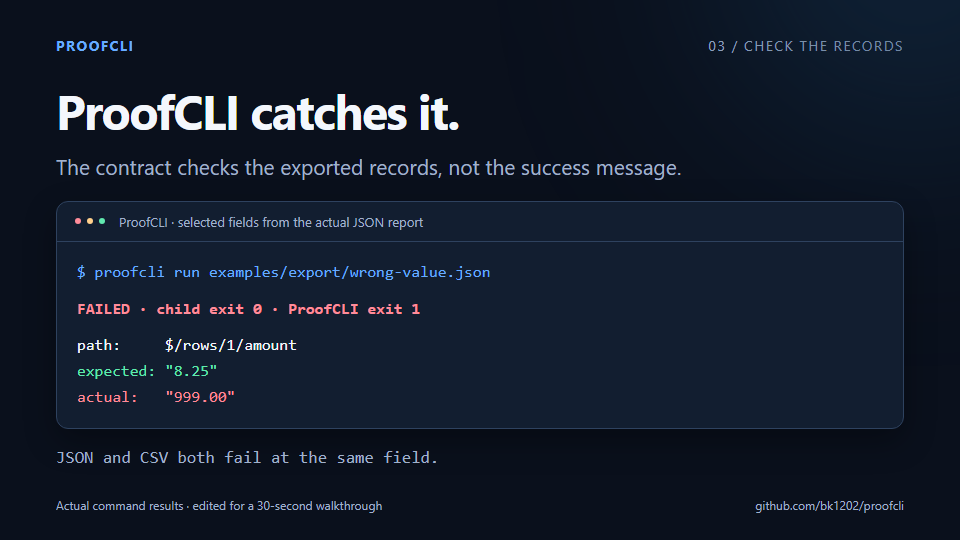
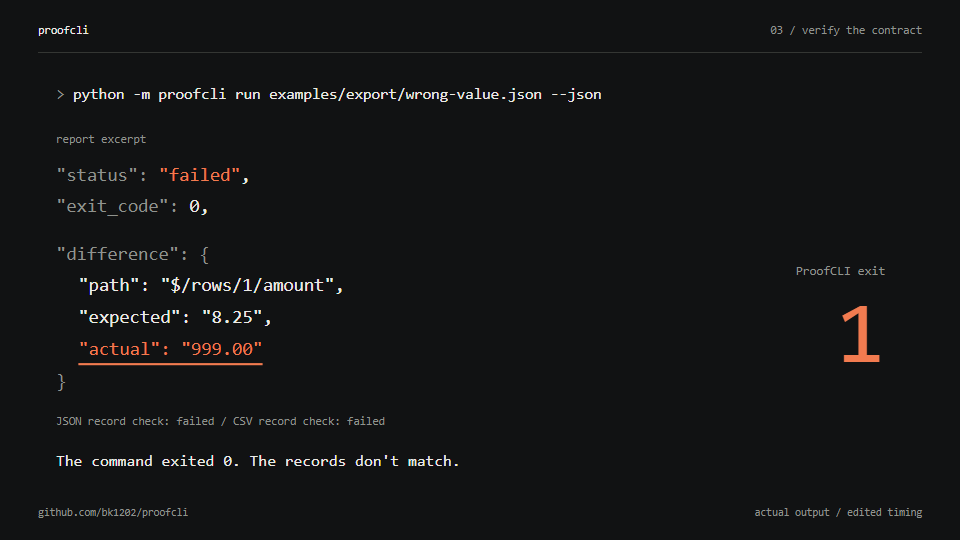
Rework the demo around terminal output and focused motion

diff --git a/demo/src/Verification.tsx b/demo/src/Verification.tsx
@@ -1,19 +1,26 @@
 import React from 'react';
 import {interpolate,useCurrentFrame,useVideoConfig} from 'remotion';
-import {color,Frame,Title,Terminal,mono} from './design';
+import {color,Frame,Note,ease} from './design';
 import evidence from './evidence.json';
 
 export const Verification: React.FC = () => {
   const frame=useCurrentFrame(); const {fps}=useVideoConfig();
-  return <Frame chapter="03 / CHECK THE RECORDS"><Title>ProofCLI catches it.</Title>
-    <div style={{fontSize:42,color:color.muted,marginBottom:42}}>The contract checks the exported records, not the success message.</div>
-    <Terminal title="ProofCLI · selected fields from the actual JSON report">
-      <div style={{color:color.blue}}>$ proofcli run examples/export/wrong-value.json</div>
-      <div style={{marginTop:22,color:color.red,fontWeight:700}}>FAILED · child exit {evidence.proofcli.child_exit_code} · ProofCLI exit {evidence.proofcli.exit_code}</div>
-      <div style={{marginTop:18}}>path:     {evidence.proofcli.difference.path}</div>
-      <div style={{color:color.green}}>expected: "{evidence.proofcli.difference.expected}"</div>
-      <div style={{color:color.red}}>actual:   "{evidence.proofcli.difference.actual}"</div>
-    </Terminal>
-    <div style={{marginTop:36,fontFamily:mono,fontSize:34,color:color.muted,opacity:interpolate(frame,[3*fps,3.4*fps],[0,1],{extrapolateLeft:'clamp',extrapolateRight:'clamp'})}}>JSON and CSV both fail at the same field.</div>
+  return <Frame chapter="03 / verify the contract">
+    <div style={{position:'absolute',left:112,top:169,fontSize:31,color:color.ink}}><span style={{color:color.muted}}>&gt; </span>{evidence.commands.proofcli}</div>
+    <div style={{position:'absolute',left:112,top:276,fontSize:35,lineHeight:1.7,scale:interpolate(frame,[2.2*fps,3*fps],[1,1.065],{easing:ease,extrapolateLeft:'clamp',extrapolateRight:'clamp'}),transformOrigin:'left center',opacity:interpolate(frame,[.35*fps,.5*fps],[0,1],{extrapolateLeft:'clamp',extrapolateRight:'clamp'})}}>
+      <div style={{color:color.muted,fontSize:22,marginBottom:18}}>report excerpt</div>
+      <div><span style={{color:color.muted}}>"status": </span><span style={{color:color.red}}>"{evidence.proofcli.status}"</span>,</div>
+      <div><span style={{color:color.muted}}>"exit_code": </span>{evidence.proofcli.child_exit_code},</div>
+      <div style={{marginTop:29,color:color.muted}}>"difference": {'{'}</div>
+      <div style={{paddingLeft:42}}>"path": "{evidence.proofcli.difference.path}",</div>
+      <div style={{paddingLeft:42}}>"expected": "{evidence.proofcli.difference.expected}",</div>
+      <div style={{paddingLeft:42,color:color.red}}><span style={{position:'relative'}}>"actual": "{evidence.proofcli.difference.actual}"<span style={{position:'absolute',left:0,right:0,bottom:-12,height:3,background:color.red,transformOrigin:'left',scale:`${interpolate(frame,[1.4*fps,2*fps],[0,1],{easing:ease,extrapolateLeft:'clamp',extrapolateRight:'clamp'})} 1`}}/></span></div>
+      <div style={{color:color.muted}}>{'}'}</div>
+    </div>
+    <div style={{position:'absolute',right:150,top:527,textAlign:'right',opacity:interpolate(frame,[3.3*fps,3.5*fps],[0,1],{extrapolateLeft:'clamp',extrapolateRight:'clamp'})}}>
+      <div style={{fontSize:25,color:color.muted}}>ProofCLI exit</div><div style={{fontSize:176,lineHeight:1.25,color:color.red,translate:`0 ${interpolate(frame,[3.3*fps,3.9*fps],[180,0],{easing:ease,extrapolateLeft:'clamp',extrapolateRight:'clamp'})}px`}}>{evidence.proofcli.exit_code}</div>
+    </div>
+    <div style={{position:'absolute',left:112,top:827,fontSize:23,color:color.muted,opacity:interpolate(frame,[5*fps,5.5*fps],[0,1],{extrapolateLeft:'clamp',extrapolateRight:'clamp'})}}>JSON record check: failed   /   CSV record check: failed</div>
+    <Note>The command exited 0. The records don't match.</Note>
   </Frame>;
 };

diff --git a/demo/src/design.tsx b/demo/src/design.tsx
@@ -1,26 +1,23 @@
 import React from 'react';
-import {AbsoluteFill, interpolate, useCurrentFrame} from 'remotion';
+import {AbsoluteFill, Easing, interpolate, useCurrentFrame, useVideoConfig} from 'remotion';
 
-export const color = {bg: '#0A101C', panel: '#121E30', ink: '#F4F7FC', muted: '#A1B2CB', blue: '#68ACFF', green: '#61E9AF', red: '#FF8C9A'};
-export const mono = 'Consolas, "DejaVu Sans Mono", monospace';
+export const color = {bg: '#111213', panel: '#111213', ink: '#ECEBE6', muted: '#90938E', blue: '#ECEBE6', green: '#AFCDA0', red: '#F27B50'};
+export const mono = '"Consolas", "Liberation Mono", monospace';
+export const ease = Easing.bezier(0.16, 1, 0.3, 1);
 export const Frame: React.FC<{chapter: string; children: React.ReactNode}> = ({chapter, children}) => {
-  const frame = useCurrentFrame();
-  return <AbsoluteFill style={{background: color.bg, color: color.ink, fontFamily: '"Segoe UI", Arial, sans-serif', padding: '72px 112px',
-    opacity: interpolate(frame,[0,10],[0,1],{extrapolateLeft:'clamp',extrapolateRight:'clamp'})}}>
-    <div style={{position:'absolute',width:780,height:780,borderRadius:'50%',background:'#153654',filter:'blur(220px)',right:-300,top:-500,opacity:.5}}/>
-    <div style={{display:'flex',justifyContent:'space-between',fontSize:28,letterSpacing:3,color:color.muted,marginBottom:60}}>
-      <span style={{color:color.blue,fontWeight:700}}>PROOFCLI</span><span>{chapter}</span>
+  return <AbsoluteFill style={{background:color.bg,color:color.ink,fontFamily:mono}}>
+    <div style={{position:'absolute',left:76,right:76,top:46,display:'flex',justifyContent:'space-between',fontSize:23,color:color.muted}}>
+      <span style={{color:color.ink}}>proofcli</span><span>{chapter}</span>
     </div>
-    <div style={{position:'relative'}}>{children}</div>
-    <div style={{position:'absolute',bottom:54,left:112,right:112,display:'flex',justifyContent:'space-between',fontSize:24,color:color.muted}}>
-      <span>Actual command results · edited for a 30-second walkthrough</span><span>github.com/bk1202/proofcli</span>
-    </div>
+    <div style={{position:'absolute',left:76,right:76,top:104,height:1,background:'#343633'}}/>
+    {children}
+    <div style={{position:'absolute',left:76,bottom:42,fontSize:21,color:color.muted}}>github.com/bk1202/proofcli</div>
+    <div style={{position:'absolute',right:76,bottom:42,fontSize:21,color:color.muted}}>actual output / edited timing</div>
   </AbsoluteFill>;
 };
-export const Title: React.FC<{children: React.ReactNode}> = ({children}) => <div style={{fontSize:96,fontWeight:700,lineHeight:1.08,letterSpacing:-3,marginBottom:30}}>{children}</div>;
-export const Terminal: React.FC<{title: string; children: React.ReactNode}> = ({title, children}) => <div style={{background:color.panel,border:'1px solid #2E425F',borderRadius:24,overflow:'hidden',boxShadow:'0 24px 64px #0005'}}>
-  <div style={{padding:'22px 36px',borderBottom:'1px solid #2E425F',fontSize:26,color:color.muted,display:'flex',gap:12,alignItems:'center'}}>
-    <span style={{width:12,height:12,borderRadius:10,background:color.red}}/><span style={{width:12,height:12,borderRadius:10,background:'#FFD08C'}}/><span style={{width:12,height:12,borderRadius:10,background:color.green}}/><span style={{marginLeft:16}}>{title}</span>
-  </div>
-  <div style={{padding:'34px 40px',fontFamily:mono,fontSize:32,lineHeight:1.65,whiteSpace:'pre-wrap'}}>{children}</div>
-</div>;
+export const Note: React.FC<{children: React.ReactNode}> = ({children}) => {
+  const frame=useCurrentFrame();const {fps}=useVideoConfig();
+  return <div style={{position:'absolute',left:112,bottom:140,fontSize:32,color:color.ink,overflow:'hidden'}}>
+    <div style={{translate:`0 ${interpolate(frame,[.2*fps,.6*fps],[45,0],{easing:ease,extrapolateLeft:'clamp',extrapolateRight:'clamp'})}px`}}>{children}</div>
+  </div>;
+};

diff --git a/demo/src/Ordinary.tsx b/demo/src/Ordinary.tsx
@@ -1,17 +1,20 @@
 import React from 'react';
 import {interpolate,useCurrentFrame,useVideoConfig} from 'remotion';
-import {color,Frame,Title,Terminal} from './design';
+import {color,Frame,Note,ease} from './design';
 import evidence from './evidence.json';
 
 export const Ordinary: React.FC = () => {
   const frame=useCurrentFrame(); const {fps}=useVideoConfig();
-  return <Frame chapter="02 / EXIT CODE ONLY"><Title>The export step passes.</Title>
-    <div style={{fontSize:42,color:color.muted,marginBottom:48}}>A CI step that checks only the exit code misses the bug.</div>
-    <Terminal title="Exit-code-only CI · command shortened for readability">
-      <div style={{color:color.blue}}>$ python export.py input.csv report.json<br/>  --fault wrong-value</div>
-      <div style={{marginTop:28,opacity:interpolate(frame,[fps,1.5*fps],[0,1],{extrapolateLeft:'clamp',extrapolateRight:'clamp'})}}>{evidence.ordinary.stdout}</div>
-      <div style={{color:color.green,marginTop:28,fontWeight:700,opacity:interpolate(frame,[2*fps,2.3*fps],[0,1],{extrapolateLeft:'clamp',extrapolateRight:'clamp'})}}>EXIT {evidence.ordinary.exit_code} · STEP PASSED</div>
-    </Terminal>
-    <div style={{marginTop:38,fontSize:36,color:color.muted}}>Valid JSON. Nonempty CSV. Still the wrong amount.</div>
+  return <Frame chapter="02 / inspect files">
+    <div style={{position:'absolute',left:112,top:218,width:1696,display:'flex',gap:100,scale:interpolate(frame,[1.4*fps,2.2*fps],[1,1.08],{easing:ease,extrapolateLeft:'clamp',extrapolateRight:'clamp'}),transformOrigin:'left 220px'}}>
+      <div style={{width:760}}><div style={{fontSize:26,color:color.muted,marginBottom:48}}>fixtures/input.csv</div>
+        {evidence.source_csv.trimEnd().split('\n').map((line,i)=><div key={i} style={{fontSize:39,lineHeight:1.8,whiteSpace:'pre',color:i===2?color.ink:color.muted}}>{line}</div>)}
+      </div>
+      <div style={{width:760}}><div style={{fontSize:26,color:color.muted,marginBottom:48}}>report.csv</div>
+        {evidence.output_csv.trimEnd().split('\n').map((line,i)=><div key={i} style={{fontSize:39,lineHeight:1.8,whiteSpace:'pre',color:i===2?color.ink:color.muted}}>{i===2?<>{line.slice(0,line.lastIndexOf(',')+1)}<span style={{position:'relative',color:color.red}}>{line.slice(line.lastIndexOf(',')+1)}<span style={{position:'absolute',left:0,right:0,bottom:-12,height:2,background:color.red,transformOrigin:'left',scale:`${interpolate(frame,[.8*fps,1.4*fps],[0,1],{easing:ease,extrapolateLeft:'clamp',extrapolateRight:'clamp'})} 1`}}/></span></>:line}</div>)}
+      </div>
+    </div>
+    <div style={{position:'absolute',left:112,top:700,fontSize:25,color:color.muted,opacity:interpolate(frame,[2.1*fps,2.4*fps],[0,1],{extrapolateLeft:'clamp',extrapolateRight:'clamp'})}}>same record / different amount</div>
+    <Note>Grace: {evidence.proofcli.difference.expected} → {evidence.proofcli.difference.actual}</Note>
   </Frame>;
 };

diff --git a/demo/src/Opening.tsx b/demo/src/Opening.tsx
@@ -1,19 +1,21 @@
 import React from 'react';
-import {interpolate,useCurrentFrame} from 'remotion';
-import {color,Frame,Title,mono} from './design';
+import {interpolate,useCurrentFrame,useVideoConfig} from 'remotion';
+import {color,Frame,Note,ease} from './design';
 import evidence from './evidence.json';
 
 export const Opening: React.FC = () => {
-  const frame=useCurrentFrame();
-  return <Frame chapter="01 / THE BUG"><Title>Green CI.<br/><span style={{color:color.red}}>Wrong data.</span></Title>
-    <div style={{fontSize:42,color:color.muted,marginBottom:52}}>An exporter silently changes one customer's amount.</div>
-    <div style={{display:'flex',gap:34,opacity:interpolate(frame,[25,45],[0,1],{extrapolateLeft:'clamp',extrapolateRight:'clamp'})}}>
-      <div style={{background:color.panel,border:'1px solid #2E425F',padding:38,borderRadius:20,flex:1}}>
-        <div style={{color:color.muted,fontSize:28,marginBottom:20}}>EXPECTED · GRACE</div><div style={{fontFamily:mono,fontSize:76,color:color.green}}>{evidence.proofcli.difference.expected}</div>
-      </div>
-      <div style={{background:color.panel,border:'1px solid #74404D',padding:38,borderRadius:20,flex:1}}>
-        <div style={{color:color.muted,fontSize:28,marginBottom:20}}>EXPORTED · {evidence.record.customer.toUpperCase()}</div><div style={{fontFamily:mono,fontSize:76,color:color.red}}>{evidence.record.amount}</div>
-      </div>
+  const frame=useCurrentFrame();const {fps}=useVideoConfig();
+  return <Frame chapter="01 / export">
+    <div style={{position:'absolute',left:112,top:196,width:1570,fontSize:35,lineHeight:1.7,scale:interpolate(frame,[3*fps,4*fps],[1,1.045],{easing:ease,extrapolateLeft:'clamp',extrapolateRight:'clamp'}),transformOrigin:'left top'}}>
+      <div style={{color:color.muted,marginBottom:26}}>export-demo &gt;</div>
+      <div style={{whiteSpace:'pre-wrap'}}>{evidence.commands.export}</div>
+      <div style={{marginTop:48,opacity:interpolate(frame,[fps,1.15*fps],[0,1],{extrapolateLeft:'clamp',extrapolateRight:'clamp'})}}>{evidence.ordinary.stdout}</div>
     </div>
+    <div style={{position:'absolute',right:150,top:527,overflow:'hidden',textAlign:'right',opacity:interpolate(frame,[1.8*fps,2*fps],[0,1],{extrapolateLeft:'clamp',extrapolateRight:'clamp'})}}>
+      <div style={{fontSize:25,color:color.muted}}>process exit</div>
+      <div style={{fontSize:176,lineHeight:1.25,color:color.green,translate:`0 ${interpolate(frame,[1.8*fps,2.4*fps],[190,0],{easing:ease,extrapolateLeft:'clamp',extrapolateRight:'clamp'})}px`}}>{evidence.ordinary.exit_code}</div>
+    </div>
+    <div style={{position:'absolute',left:112,top:598,width:interpolate(frame,[2.3*fps,3*fps],[0,1130],{easing:ease,extrapolateLeft:'clamp',extrapolateRight:'clamp'}),height:1,background:'#4C5048'}}/>
+    <Note>The export step passes.</Note>
   </Frame>;
 };

diff --git a/demo/src/Closing.tsx b/demo/src/Closing.tsx
@@ -1,10 +1,16 @@
 import React from 'react';
-import {color,Frame,Title,Terminal} from './design';
+import {interpolate,useCurrentFrame,useVideoConfig} from 'remotion';
+import {color,Frame,Note,ease} from './design';
 
-export const Closing: React.FC = () => <Frame chapter="04 / ADD THE CHECK"><Title>Make the output<br/>part of the contract.</Title>
-  <div style={{fontSize:42,color:color.muted,marginBottom:38}}>One workflow step. Python setup included.</div>
-  <Terminal title="Your GitHub Actions workflow">
-    <div><span style={{color:color.blue}}>- uses:</span> bk1202/proofcli@v0.4.0<br/><span style={{color:color.blue}}>  with:</span><br/>    spec: tests/export-contract.json</div>
-  </Terminal>
-  <div style={{marginTop:36,fontSize:32,color:color.muted}}>A pass covers the assertions you declare. Write them carefully.</div>
-</Frame>;
+export const Closing: React.FC = () => {
+  const frame=useCurrentFrame();const {fps}=useVideoConfig();
+  return <Frame chapter="04 / add to CI">
+    <div style={{position:'absolute',left:112,top:222,fontSize:26,color:color.muted}}>.github/workflows/export.yml</div>
+    <div style={{position:'absolute',left:112,top:330,fontSize:41,lineHeight:1.9,whiteSpace:'pre',translate:`${interpolate(frame,[0,.6*fps],[55,0],{easing:ease,extrapolateLeft:'clamp',extrapolateRight:'clamp'})}px 0`}}>
+      <div><span style={{color:color.muted}}>- uses: </span>bk1202/proofcli@v0.4.0</div><div style={{color:color.muted}}>  with:</div><div>    spec: tests/export-contract.json</div>
+    </div>
+    <div style={{position:'absolute',left:112,top:650,width:interpolate(frame,[.5*fps,1.2*fps],[0,1650],{easing:ease,extrapolateLeft:'clamp',extrapolateRight:'clamp'}),height:1,background:'#454841'}}/>
+    <div style={{position:'absolute',left:112,top:720,fontSize:28,color:color.muted}}>Python setup included. Your assertions define the check.</div>
+    <Note>Check the exported records in CI.</Note>
+  </Frame>;
+};

diff --git a/demo/src/Composition.tsx b/demo/src/Composition.tsx
@@ -7,16 +7,16 @@ import {Closing} from './Closing';
 const Video = () => {
   const {fps}=useVideoConfig();
   return <Series>
-    <Series.Sequence name="The wrong amount" durationInFrames={5*fps} premountFor={fps}><Opening/></Series.Sequence>
-    <Series.Sequence name="Exit-code-only CI" durationInFrames={7*fps} premountFor={fps}><Ordinary/></Series.Sequence>
+    <Series.Sequence name="Run the broken exporter" durationInFrames={7*fps} premountFor={fps}><Opening/></Series.Sequence>
+    <Series.Sequence name="Inspect the actual CSV" durationInFrames={6*fps} premountFor={fps}><Ordinary/></Series.Sequence>
     <Series.Sequence name="ProofCLI detects the mismatch" durationInFrames={11*fps} premountFor={fps}><Verification/></Series.Sequence>
-    <Series.Sequence name="Add the action" durationInFrames={7*fps} premountFor={fps}><Closing/></Series.Sequence>
+    <Series.Sequence name="Add the action" durationInFrames={6*fps} premountFor={fps}><Closing/></Series.Sequence>
   </Series>;
 };
 export const MyComposition = () => <>
   <Composition id="ProofCLI" component={Video} durationInFrames={900} fps={30} width={1920} height={1080}/>
-  <Composition id="Opening" component={Opening} durationInFrames={150} fps={30} width={1920} height={1080}/>
-  <Composition id="ExitCodeOnly" component={Ordinary} durationInFrames={210} fps={30} width={1920} height={1080}/>
+  <Composition id="Opening" component={Opening} durationInFrames={210} fps={30} width={1920} height={1080}/>
+  <Composition id="ExitCodeOnly" component={Ordinary} durationInFrames={180} fps={30} width={1920} height={1080}/>
   <Composition id="Verification" component={Verification} durationInFrames={330} fps={30} width={1920} height={1080}/>
-  <Composition id="AddTheAction" component={Closing} durationInFrames={210} fps={30} width={1920} height={1080}/>
+  <Composition id="AddTheAction" component={Closing} durationInFrames={180} fps={30} width={1920} height={1080}/>
 </>;

diff --git a/tools/capture_demo.py b/tools/capture_demo.py
@@ -2,7 +2,9 @@
 
 import hashlib
 import json
+import os
 from pathlib import Path
+import shutil
 import subprocess
 import sys
 import tempfile
@@ -13,26 +15,41 @@ ROOT = Path(__file__).resolve().parents[1]
 def main():
     example = ROOT / "examples/export"
     with tempfile.TemporaryDirectory(prefix="proofcli-demo-") as directory:
-        report_path = Path(directory) / "report.json"
-        command = [sys.executable, str(example / "export.py"), str(example / "fixtures/input.csv"),
-                   str(report_path), "--fault", "wrong-value"]
+        stage = Path(directory)
+        staged_example = stage / "examples/export"
+        (staged_example / "fixtures").mkdir(parents=True)
+        for name in ("export.py", "wrong-value.json", "fixtures/input.csv"):
+            shutil.copyfile(example / name, staged_example / name)
+        report_path = stage / "report.json"
+        export_args = ["examples/export/export.py", "examples/export/fixtures/input.csv", "report.json", "--fault", "wrong-value"]
+        command = [sys.executable, *export_args]
         ordinary = subprocess.run(command, cwd=directory, capture_output=True, text=True, timeout=10)
         assert ordinary.returncode == 0, ordinary.stderr
         exported = json.loads(report_path.read_text(encoding="utf-8"))
         assert exported["rows"][1]["amount"] == "999.00"
-        verified = subprocess.run([sys.executable, "-m", "proofcli", "run", str(example / "wrong-value.json"), "--json"],
-                                  cwd=ROOT, capture_output=True, text=True, timeout=15)
+        proof_args = ["-m", "proofcli", "run", "examples/export/wrong-value.json", "--json"]
+        env = os.environ.copy()
+        env["PYTHONPATH"] = str(ROOT)
+        verified = subprocess.run([sys.executable, *proof_args], cwd=stage, env=env,
+                                  capture_output=True, text=True, timeout=15)
         assert verified.returncode == 1, verified.stderr
         proof = json.loads(verified.stdout)
         assert proof["status"] == "failed" and proof["exit_code"] == 0 and proof["verification_complete"]
         difference = next(c["actual"]["difference"] for c in proof["checks"]
                           if c["name"].endswith(":json_equals"))
         assert difference["path"] == "$/rows/1/amount" and difference["expected"] == "8.25"
+        assert difference["actual"] == exported["rows"][1]["amount"]
+        assert len([c for c in proof["checks"] if not c["passed"]]) == 2
         evidence = {"ordinary": {"exit_code": ordinary.returncode, "stdout": ordinary.stdout.strip()},
                     "proofcli": {"status": proof["status"], "exit_code": verified.returncode, "child_exit_code": proof["exit_code"],
                                  "difference": difference},
                     "record": exported["rows"][1],
-                    "fixture_sha256": hashlib.sha256((example / "fixtures/input.csv").read_bytes()).hexdigest()}
+                    "fixture_sha256": hashlib.sha256((example / "fixtures/input.csv").read_bytes()).hexdigest(),
+                    "commands": {"export": "python " + " ".join(export_args), "proofcli": "python " + " ".join(proof_args)},
+                    "source_csv": (example / "fixtures/input.csv").read_text(encoding="utf-8"),
+                    "output_csv": report_path.with_suffix(".csv").read_text(encoding="utf-8"),
+                    "failed_checks": [{"name": c["name"], "difference": c["actual"]["difference"]}
+                                      for c in proof["checks"] if not c["passed"]]}
         destination = ROOT / "demo/src/evidence.json"
         destination.write_text(json.dumps(evidence, indent=2) + "\n", encoding="utf-8")
         print(json.dumps(evidence, indent=2))

diff --git a/docs/demo.md b/docs/demo.md
@@ -1,10 +1,12 @@
 # The 30-second demo
 
-[Download/watch the MP4](https://github.com/bk1202/proofcli/releases/download/v0.4.0/proofcli-demo.mp4).
+[Download/watch the revised MP4](https://github.com/bk1202/proofcli/releases/download/v0.4.0/proofcli-demo-v2.mp4).
 
-The silent, captioned walkthrough runs for exactly 900 frames at 30 fps. It shows a real exporter changing Grace's amount from `8.25` to `999.00`, an exit-code-only CI step accepting its exit `0`, and ProofCLI rejecting the incorrect JSON and CSV records.
+The silent, captioned walkthrough runs for exactly 900 frames at 30 fps. It starts with the command and success message, compares the input CSV with the actual export, then follows ProofCLI's failed assertion. Camera pushes, value highlights, and short captions guide attention. There is no introductory title card or simulated installation output.
 
-The terminal panels are edited presentations of actual command results, not a continuous screen recording. `demo/src/evidence.json` is generated by executing the exporter and CLI; the composition reads its amounts, messages, and mismatch directly. The shortened ordinary command and selected report fields are labelled in the video. This is a demonstration of missing assertions in CI, not a claim that CI or other testing tools cannot verify data.
+The terminal/file views replay actual command results with edited timing; they are not a continuous desktop screen recording. `demo/src/evidence.json` is generated by executing the exporter and CLI in a fresh staged directory. It includes the real commands, both CSV contents, messages, exit codes, and mismatches. The composition reads those values directly; selected report fields are labelled as an excerpt. This demonstrates missing assertions in CI, not a claim that CI or other testing tools cannot verify data.
+
+Revision 2 is a separate release asset with its own `proofcli-demo-v2.SHA256SUMS`. The original release video and package checksums remain available. The README and release notes point to the revised cut.
 
 To reproduce from the repository root, with Python 3.10+ and Node.js 22+:
 
@@ -24,5 +26,7 @@ npm run poster
 ```
 
 The output is `demo/out/proofcli-demo.mp4`; the poster is `demo/out/demo-poster.png`. Dependencies are locked in `demo/package-lock.json` and are used only to build the video. The Python package and GitHub Action do not install them.
+
+`demo-video.yml` renders pull-request previews and publishes the named revision after merge to main. It refuses to replace an existing asset. Future edits must use a new revision filename and matching links instead of overwriting published bytes. This media workflow does not trigger a Python package release.
 
 [The hosted demo workflow](../.github/workflows/demo.yml) intentionally has a successful ordinary job and a failed ProofCLI job. Its failed overall result is the expected demonstration. The separate validation workflow asserts that same failure and remains green only when ProofCLI rejects the broken export.

diff --git a/README.md b/README.md
@@ -23,9 +23,9 @@ ProofCLI tests the output of command-line tools. Give it a command and a JSON co
 
 Use it for an exporter that drops records, a generator that writes an empty file, or an automated workflow that prints “done” before producing the expected result. A passing check means the declared assertions passed. The quality of those assertions still matters.
 
-[![Watch the 30-second ProofCLI demo](https://raw.githubusercontent.com/bk1202/proofcli/main/docs/assets/demo-poster.png)](https://github.com/bk1202/proofcli/releases/download/v0.4.0/proofcli-demo.mp4)
+[![Watch the 30-second ProofCLI demo](https://raw.githubusercontent.com/bk1202/proofcli/main/docs/assets/demo-poster.png)](https://github.com/bk1202/proofcli/releases/download/v0.4.0/proofcli-demo-v2.mp4)
 
-**[Watch the 30-second demo](https://github.com/bk1202/proofcli/releases/download/v0.4.0/proofcli-demo.mp4)** · [Run the examples](examples/export) · [GitHub Action](#github-action)
+**[Watch the 30-second demo](https://github.com/bk1202/proofcli/releases/download/v0.4.0/proofcli-demo-v2.mp4)** · [Run the examples](examples/export) · [GitHub Action](#github-action)
 
 ## Quick start
 
